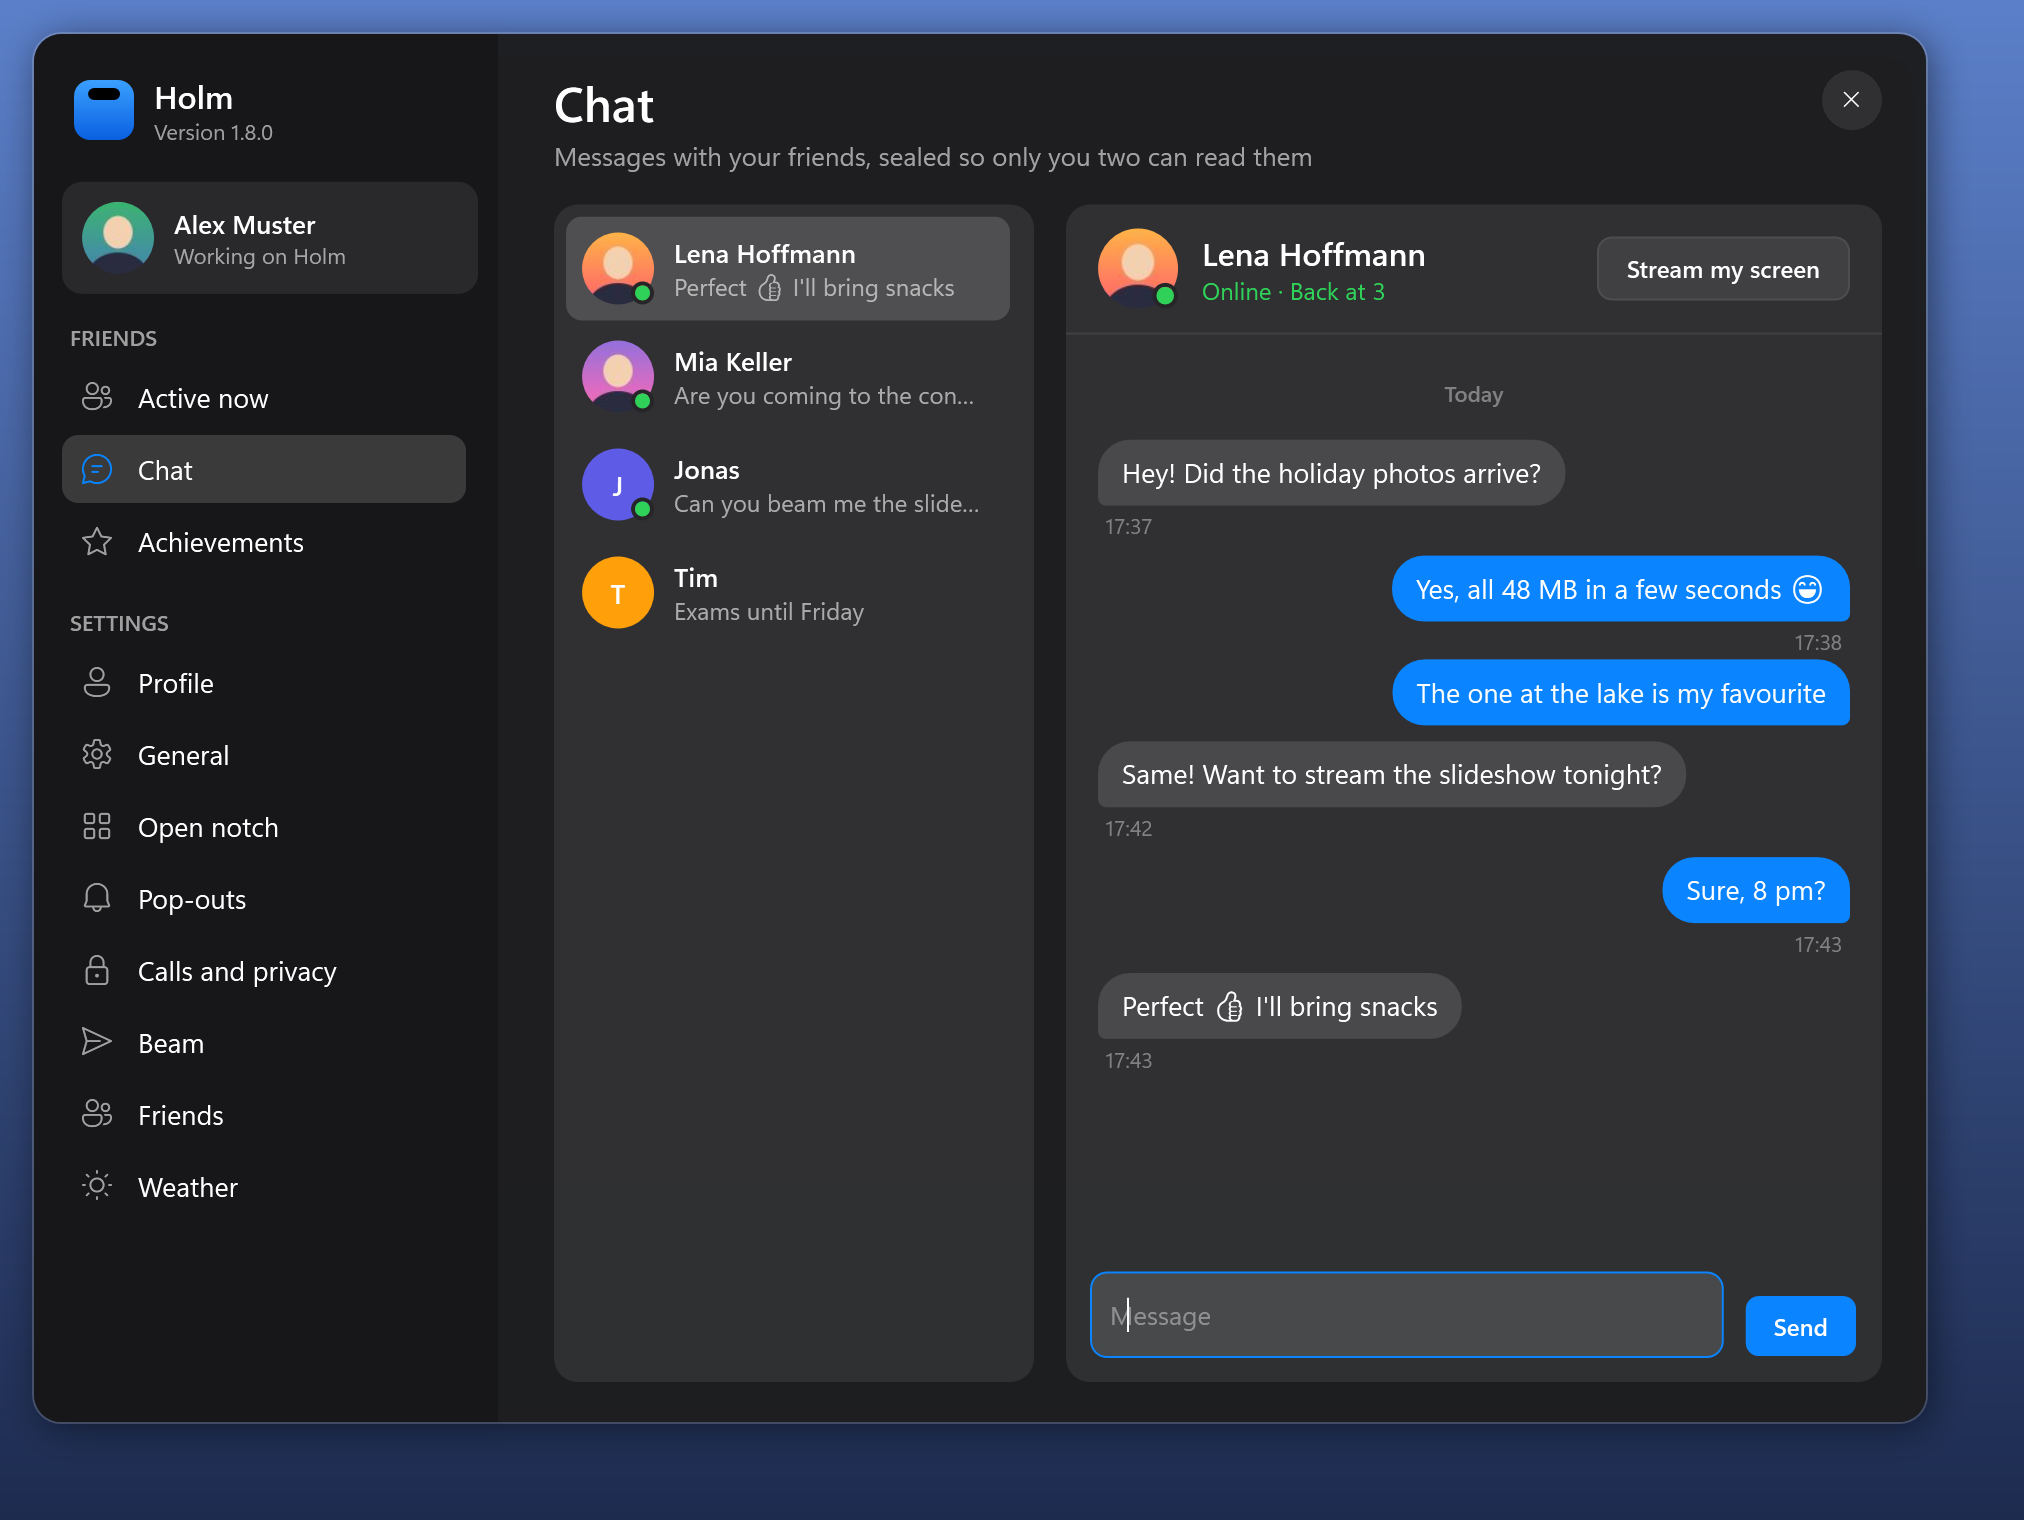
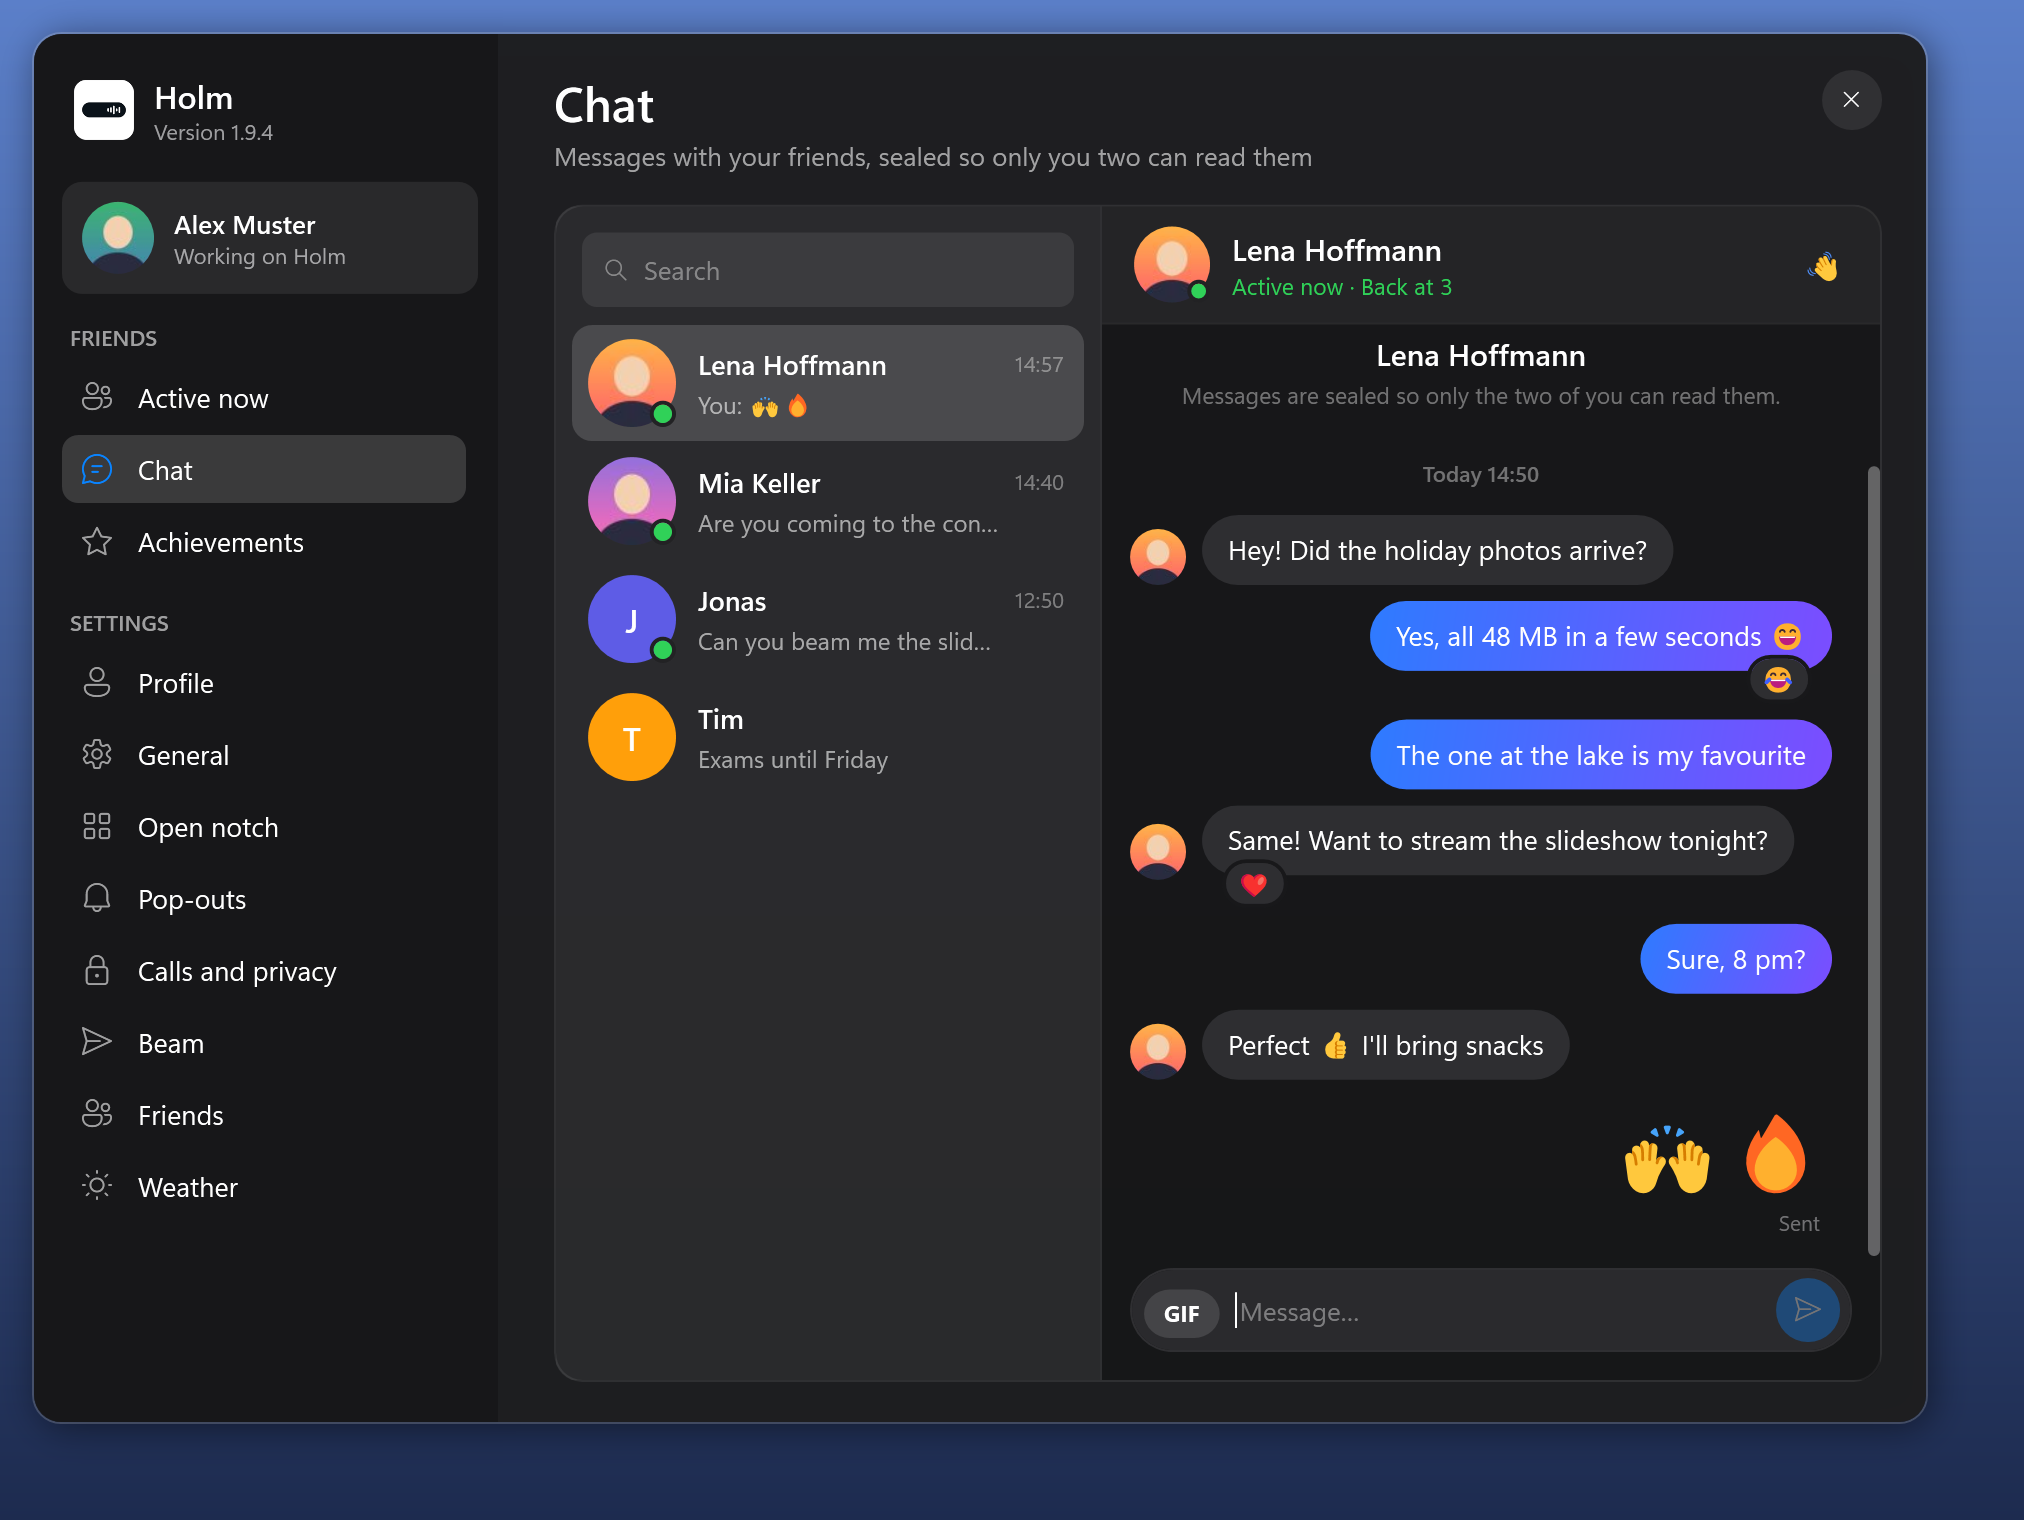
Prepare Holm 1.9.4 release

Changed region(s): [[0.2801, 0.1237, 0.9338, 0.9276], [0.0311, 0.0309, 0.0934, 0.0928]]

diff --git a/CHANGELOG.md b/CHANGELOG.md
@@ -1,5 +1,14 @@
 # Changelog
 
+## 1.9.4 – 2026-11-10
+
+### Changed
+- **The chat, redesigned.** One card split in two: searchable conversations with the time of the last message and a blue unread count, and the conversation with a header (*Active now*, wave, share screen), bubbles that run together with joined corners and a blue-to-purple gradient for yours, their face beside their last bubble, times only after a pause of 15 minutes, one to three emoji shown big without a bubble, *Sent* under your last message, and a round message box with *GIF* and a send button that lights up. An empty chat greets with their face and *Say hi 👋*.
+- **A click outside Holm closes the notch.** While the notch is open, or a pop-out that goes away on its own shows (a message, the volume, a screenshot), a press on any window that isn't Holm's closes it at once. Holm's own windows and menus don't count; pop-outs that wait for an answer stay. A timer checks the mouse buttons every 35 ms only while something is open.
+
+### Fixed
+- **GIFs can't take Holm down.** Every GIF is walked block by block in safe code (`GifInspector`) before Windows' decoder sees it: an absurd canvas or frame (over 2048 px) is turned away, a cut-off or junk-filled file is cut back to its whole frames and closed properly, and very long GIFs are cut to what Holm draws. Decoding catches everything a broken file can throw, two GIFs decode at a time, decoded GIFs together stay under 96 MB (16 MB each), a cached file that doesn't decode is fetched again, and loading or showing a GIF in the chat or the notch can't throw. A test feeds 3000 damaged GIFs through it.
+
 ## 1.9.3 – 2026-11-10
 
 ### Changed

diff --git a/publish/release-1.9.4-release-notes.md b/publish/release-1.9.4-release-notes.md
@@ -1,0 +1,21 @@
+Holm 1.9.4 brings a redesigned chat, makes GIFs crash-proof and closes the notch when you click somewhere else.
+
+## Download
+
+| File | For whom |
+| --- | --- |
+| **Holm-1.9.4-win-x64.zip** | Unzip and run `Holm.exe`; also used by Holm's automatic updater. |
+| **Holm.exe** | Run the self-contained app directly; no .NET installation needed. |
+
+Requires Windows 10 (2004 or newer) or Windows 11, x64.
+
+Holm is not code-signed, so Windows SmartScreen may warn on first launch. Click **More info → Run anyway** to launch it.
+
+### Changed
+- **A new chat.** Search your conversations, see when the last message came, and chat in bubbles that run together like in the messengers you know. Your messages get a blue-to-purple gradient, a few emoji alone show big, and the message box is round with *GIF* and a send button. Wave at a friend or share your screen right from the top of the chat.
+- **Click away to close.** A click anywhere outside Holm closes the open notch and pop-outs like messages or the volume right away. Pop-outs that wait for your answer, like an incoming file, stay.
+
+### Fixed
+- **GIFs can't crash Holm any more.** Holm checks every GIF itself before showing it. A broken or oversized GIF just shows as *GIF unavailable*, and GIFs use less memory.
+
+![Chat](https://raw.githubusercontent.com/ademerci/Holm/main/docs/chat.png)
